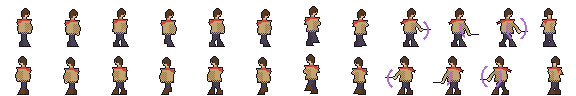
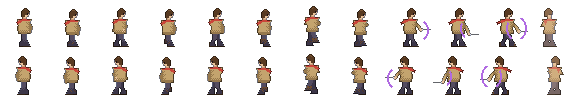
art: dither as a transition band, not a blanket over the whole shape
The instruction was that shading is dots interlacing as they cross a
boundary. What the generator did was cover entire surfaces with a 50%
checker, so the coat read as tweed and the rock read as window screen.

shade_band now walks a Bayer 4x4 threshold across the region, and the
visible middle of that ramp is squeezed into the band's centre half so the
checker never sprawls: nothing at the light end, a two or three pixel
interlace, solid shade at the dark end. Light comes from the upper left
everywhere.

The outline is no longer one flat ink for every sprite; each edge pixel is
its own colour darkened, so nobody looks like a sticker. A one pixel rim
of cold night blue rides the outer right edge so the characters separate
from a very dark forest, restricted to the outer part of the silhouette
after the first attempt lit up every one of the spider's legs. Hurt frames
tint toward a colour instead of flashing a checker.

Verified: full suite green, goldens refreshed and eyeballed at 9x.

diff --git a/tools/generate_aldebaran_assets.py b/tools/generate_aldebaran_assets.py
@@ -57,6 +57,8 @@ COAT_SHADE = (150, 120, 76)
 SCARF = (202, 70, 58)           # 붉은 목도리
 SKIN = (232, 194, 156)
 HAIR = (88, 58, 34)
+HAIR_LIGHT = (124, 86, 52)
+RIM = (150, 170, 220)      # 역광 (숲의 푸른 밤빛)
 PANTS = (84, 76, 96)
 PANTS_SHADE = (60, 54, 72)
 BOOT = (110, 74, 44)
@@ -126,19 +128,85 @@ def blank(w, h):
     return Image.new("RGBA", (w, h), (0, 0, 0, 0))
 
 
+# 순서 있는 디더 (Bayer 4x4). 문턱값이 0..15 로 흩어져 있어, 밀도 t 를 0에서 1로
+# 옮기면 두 색이 **점점 엇갈리며** 섞인다. 면 전체를 50% 체커로 덮는 것과 다르다.
+BAYER4 = [
+    [0, 8, 2, 10],
+    [12, 4, 14, 6],
+    [3, 11, 1, 9],
+    [15, 7, 13, 5],
+]
+
+
+def bayer(x, y):
+    """(x, y) 자리의 문턱값 (0.0 ~ 1.0)."""
+    return (BAYER4[y % 4][x % 4] + 0.5) / 16.0
+
+
 def dither(d, x0, y0, x1, y1, color, phase=0):
-    """체커보드 디더 — 두 색이 점점이 엇갈리며 중간 톤을 만든다 (경계 포함 안 함)."""
+    """체커보드 디더. 무늬가 필요한 자리(작은 소품)에만 쓴다."""
     for y in range(y0, y1):
         for x in range(x0, x1):
             if (x + y + phase) % 2 == 0:
                 d.point((x, y), color)
 
 
-def dither_over(img, x0, y0, x1, y1, color, phase=0):
-    """이미 칠해진 픽셀 위에만 디더를 얹는다 (실루엣 밖으로 새지 않는다)."""
+def shade_band(img, color, x0, y0, x1, y1, axis="y", invert=False, gamma=1.0):
+    """그늘(또는 빛)을 **밀도가 변하는 띠**로 얹는다.
+
+    띠의 시작에서는 한 픽셀도 찍지 않고, 끝으로 갈수록 촘촘해진다. 이미 칠해진
+    픽셀 위에만 얹으므로 실루엣 밖으로 새지 않는다.
+
+    axis  "y" 면 위에서 아래로, "x" 면 왼쪽에서 오른쪽으로 짙어진다.
+    invert 반대 방향으로 짙어지게 한다.
+    gamma  1보다 크면 늦게 짙어진다 (띠가 얇게 느껴진다).
+    """
     px = img.load()
+    x0, y0 = max(0, int(x0)), max(0, int(y0))
+    x1, y1 = min(img.width, int(x1)), min(img.height, int(y1))
+    span = (y1 - y0) if axis == "y" else (x1 - x0)
+    if span <= 0:
+        return
+    for y in range(y0, y1):
+        for x in range(x0, x1):
+            if px[x, y][3] <= 40:
+                continue
+            pos = (y - y0) if axis == "y" else (x - x0)
+            t = pos / (span - 1) if span > 1 else 1.0
+            if invert:
+                t = 1.0 - t
+            t = t ** gamma
+            # 디더가 눈에 띄는 것은 밀도가 0.5 언저리일 때다. 그 구간을 띠의
+            # 가운데 절반으로 좁히고, 바깥은 아예 비우고 안쪽은 꽉 채운다.
+            t = (t - 0.25) / 0.5
+            if t <= 0:
+                continue
+            if t >= 1 or t > bayer(x, y):
+                px[x, y] = color + (255,)
+
+
+def tint(img, color, amount=0.5, box=None):
+    """영역을 한 색 쪽으로 섞는다 (피격 번쩍임처럼 무늬가 아니라 색이 변해야 하는 곳)."""
+    px = img.load()
+    x0, y0, x1, y1 = box or (0, 0, img.width, img.height)
     for y in range(max(0, y0), min(img.height, y1)):
         for x in range(max(0, x0), min(img.width, x1)):
+            r, g, b, a = px[x, y]
+            if a <= 40:
+                continue
+            px[x, y] = (
+                int(r + (color[0] - r) * amount),
+                int(g + (color[1] - g) * amount),
+                int(b + (color[2] - b) * amount),
+                255,
+            )
+
+
+def dither_over(img, x0, y0, x1, y1, color, phase=0):
+    """예전 방식(면 전체 50% 체커). 남은 호출부가 없어질 때까지만 둔다."""
+    px = img.load()
+    for y in range(max(0, int(y0)), min(img.height, int(y1))):
+        for x in range(max(0, int(x0)), min(img.width, int(x1))):
             if (x + y + phase) % 2 == 0 and px[x, y][3] > 40:
                 px[x, y] = color + (255,)
 
@@ -148,8 +216,16 @@ def rect(d, x0, y0, x1, y1, fill):
     d.rectangle([min(x0, x1), min(y0, y1), max(x0, x1), max(y0, y1)], fill=fill)
 
 
-def outline(img, color=INK, thresh=40):
-    """실루엣 가장자리 픽셀을 테두리 색으로 바꾼다 — 지침 3번 (명확한 테두리)."""
+def darker(color, k=0.45):
+    return tuple(max(0, int(c * k)) for c in color)
+
+
+def outline(img, thresh=40, ink=None):
+    """실루엣 가장자리를 두른다 (지침 3번: 테두리가 명확할 것).
+
+    잉크 한 색으로 두르면 스티커처럼 보이므로, 기본은 **그 자리 색을 어둡게 한 것**을
+    쓴다. ink 를 주면 예전처럼 단색으로 두른다.
+    """
     px = img.load()
     w, h = img.size
     edges = []
@@ -162,7 +238,43 @@ def outline(img, color=INK, thresh=40):
                         edges.append((x, y))
                         break
     for x, y in edges:
-        px[x, y] = color + (255,)
+        if ink is not None:
+            px[x, y] = ink + (255,)
+        else:
+            r, g, b, _ = px[x, y]
+            px[x, y] = darker((r, g, b)) + (255,)
+
+
+def rim_light(img, color, thresh=40, side=0.55):
+    """실루엣의 **바깥 오른쪽** 가장자리에만 1px 역광을 넣는다.
+
+    어두운 숲에서 인물이 배경에 묻히지 않게 하는 장치다. 안쪽 가장자리(다리
+    사이 같은 곳)까지 넣으면 전부 파랗게 테두리가 지므로, 채워진 영역의
+    오른쪽 side 비율 안에 드는 픽셀만 고른다.
+    """
+    px = img.load()
+    w, h = img.size
+    xs = [x for y in range(h) for x in range(w) if px[x, y][3] > thresh]
+    if not xs:
+        return
+    x0, x1 = min(xs), max(xs)
+    limit = x0 + (x1 - x0) * side
+    hits = []
+    for y in range(1, h):
+        for x in range(w - 1):
+            if x < limit:
+                continue
+            if px[x, y][3] > thresh and px[x + 1, y][3] <= thresh:
+                if px[x, y - 1][3] > thresh:
+                    hits.append((x, y))
+    for x, y in hits:
+        r, g, b, _ = px[x, y]
+        px[x, y] = (
+            min(255, int(r + (color[0] - r) * 0.45)),
+            min(255, int(g + (color[1] - g) * 0.45)),
+            min(255, int(b + (color[2] - b) * 0.45)),
+            255,
+        )
 
 
 def sheet(frames_right, fw, fh, mirror=True):
@@ -286,11 +398,17 @@ def karto_frame(pose):
                        (hand[0] + dgx + ln, hand[1] + dgy),
                        (hand[0] + dgx, hand[1] + dgy + 1)], fill=BLADE)
 
-    # --- 명암 (마일스톤 2에서 디더 띠로 바뀐다) -----------------------------
-    dither_over(f, tx + 1, sh_y + 4, tx + 8, hip_y + 1, COAT_SHADE)
-    dither_over(f, tx - 5, hip_y, tx + 6, fy, PANTS_SHADE)
+    # --- 명암: 광원은 왼쪽 위. 오른쪽 아래로 갈수록 그늘이 촘촘해진다 -------
+    shade_band(f, COAT_SHADE, tx - 2, sh_y + 3, tx + 8, hip_y + 2, axis="x", gamma=1.4)
+    shade_band(f, COAT_SHADE, tx - 7, waist_y, tx + 8, hip_y + 2, axis="y", gamma=1.6)
+    shade_band(f, PANTS_SHADE, tx - 6, hip_y + 2, tx + 7, fy, axis="y", gamma=1.5)
+    shade_band(f, HAIR_LIGHT, hx - 4, head_t, hx + 5, head_t + 4, axis="y",
+               invert=True, gamma=1.2)
+    if pose.get("hurt"):
+        tint(f, SKIN, 0.35)
 
     outline(f)
+    rim_light(f, RIM)
 
     # 검기 (테두리 뒤에 얹는다. 빛이라 테두리가 없다)
     for arc in pose.get("slash", []):
@@ -388,10 +506,13 @@ def spider_frame(pose):
     d.point((cx + 9, by - 1), fill=SPIDER_EYE)
     d.point((cx + 11, by), fill=SPIDER_EYE)
 
-    dither_over(f, cx - 11, by, cx + 13, by + 5, SPIDER_SHADE)         # 배 쪽 그늘
+    shade_band(f, SPIDER_SHADE, cx - 12, by - 1, cx + 14, by + 5, axis="y", gamma=1.4)
+    shade_band(f, SPIDER_BELLY, cx - 11, by - 6, cx + 12, by - 4, axis="y",
+               invert=True, gamma=1.1)
     if pose.get("hurt"):
-        dither_over(f, 0, 0, 48, 32, SPIDER_BELLY, phase=1)
+        tint(f, SPIDER_BELLY, 0.45)
     outline(f)
+    rim_light(f, RIM, side=0.82)     # 다리마다 걸리지 않게 앞쪽 끝에만
     return f
 
 
@@ -469,10 +590,14 @@ def wolf_frame(pose):
         for i in range(3):
             d.line([wrist[0] + i - 1, wrist[1], wrist[0] + i + 1, wrist[1] + 3], fill=CLAW)
 
-    dither_over(f, cx - 8, hip_y - 4, cx + 9 + lean, hip_y + 3, WOLF_SHADE)
+    shade_band(f, WOLF_SHADE, cx - 9, hip_y - 6, cx + 10 + lean, hip_y + 4,
+               axis="y", gamma=1.4)
+    shade_band(f, WOLF_BELLY, cx - 6, sh_y - 2, cx + 10 + lean, sh_y + 6,
+               axis="y", invert=True, gamma=1.5)
     if pose.get("hurt"):
-        dither_over(f, 0, 0, 48, 48, WOLF_BELLY, phase=1)
+        tint(f, WOLF_BELLY, 0.45)
     outline(f)
+    rim_light(f, RIM)
     return f
 
 
@@ -510,7 +635,7 @@ def monkey_frame(pose):
         d.polygon([(cx - 14, sh_y + 3), (cx - 5, sh_y + 1),
                    (cx - 4, hip_y - 1), (cx - 13, hip_y + 1)], fill=BAG)
         d.line([cx - 13, sh_y + 8, cx - 5, sh_y + 7], fill=BAG_SHADE)
-        dither_over(f, cx - 14, sh_y + 9, cx - 4, hip_y + 1, BAG_SHADE)
+        shade_band(f, BAG_SHADE, cx - 14, sh_y + 8, cx - 4, hip_y + 1, axis="y", gamma=1.3)
 
     # --- 몸통 ---------------------------------------------------------------
     d.ellipse([cx - 7, sh_y + 2, cx + 6, hip_y + 2], fill=MONKEY)
@@ -542,9 +667,11 @@ def monkey_frame(pose):
     else:
         limb(d, (cx + 3, sh_y + 5), (cx + 9, hip_y - 1), 5, 3, MONKEY)
 
+    shade_band(f, MONKEY_SHADE, cx - 8, sh_y + 6, cx + 7, fy, axis="y", gamma=1.5)
     if pose.get("hurt"):
-        dither_over(f, 0, 0, 48, 48, MASK, phase=1)
+        tint(f, MASK, 0.45)
     outline(f)
+    rim_light(f, RIM)
     return f
 
 
